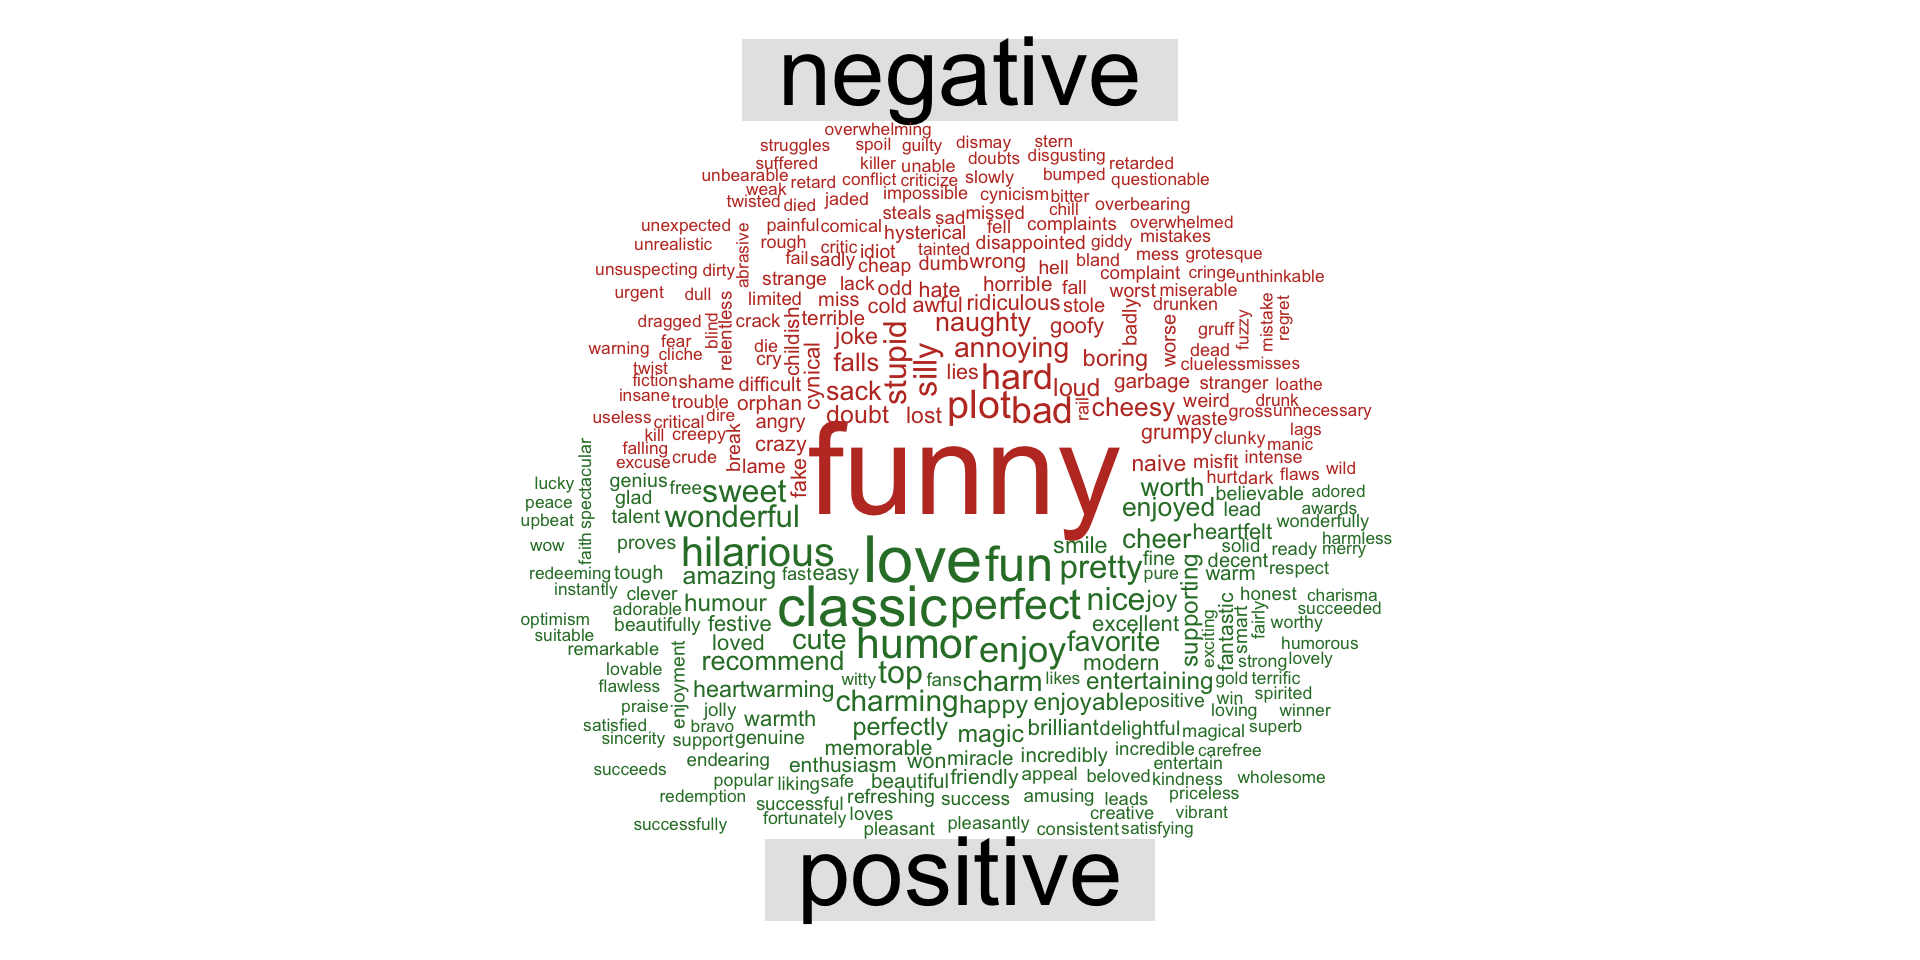
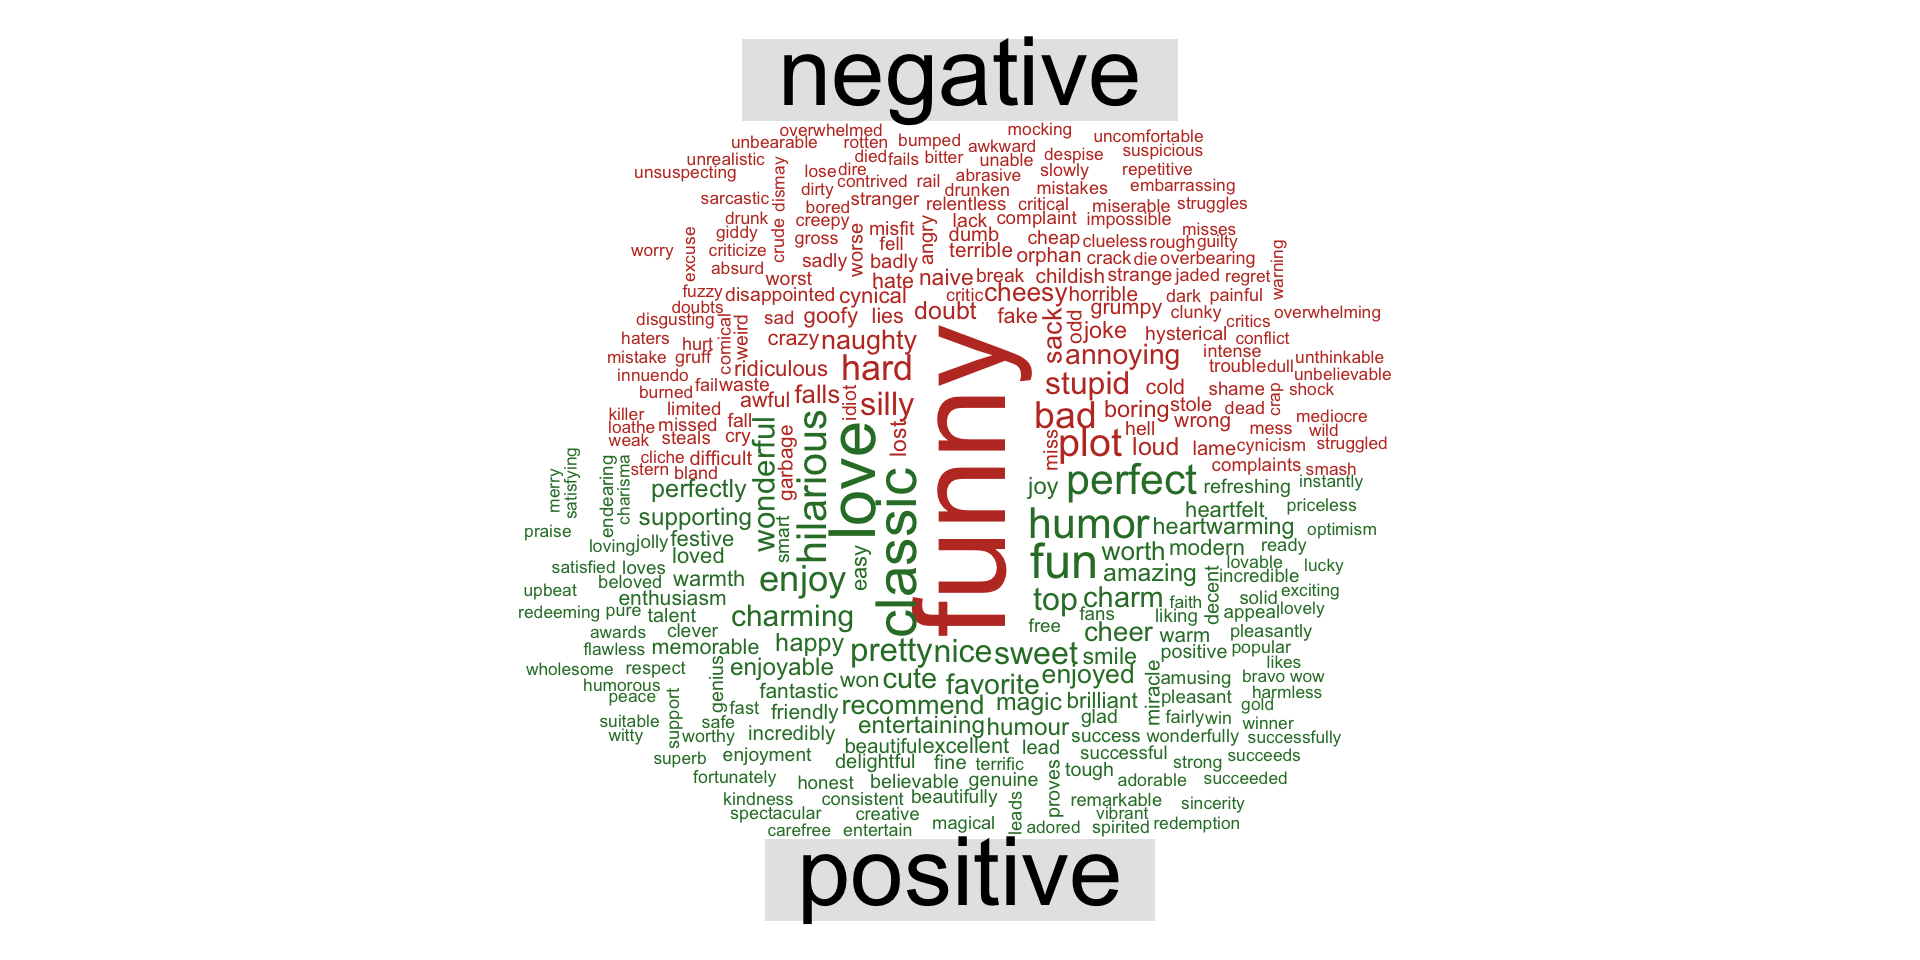
update agenda pics

Changed region(s): [[0.25, 0.125, 0.7188, 0.875]]

diff --git a/index.html b/index.html
@@ -414,9 +414,14 @@ Randi Bolt
 </div>
 </div><div class="column" style="width:25%;">
 <div class="fragment">
-<p><img data-src="img/elf.jpg" style="width:100.0%" alt=""></p>
 <div style="text-align: center;">
-<p><strong>Basic Workflow &amp; Sentiment Analysis</strong></p>
+<p><img data-src="images/clipboard-4240233675.png"><strong>Basic Workflow &amp; Sentiment Analysis</strong></p>
+</div>
+</div>
+</div><div class="column" style="width:25%;">
+<div class="fragment">
+<div style="text-align: center;">
+<p><img data-src="images/clipboard-1160658675.png"><strong>Choosing K</strong></p>
 </div>
 </div>
 </div><div class="column" style="width:25%;">
@@ -424,13 +429,6 @@ Randi Bolt
 <p><img data-src="img/elf.jpg" style="width:100.0%"></p>
 <div style="text-align: center;">
 <p><strong>Topic Modeling</strong></p>
-</div>
-</div>
-</div><div class="column" style="width:25%;">
-<div class="fragment">
-<p><img data-src="img/elf.jpg" style="width:100.0%"></p>
-<div style="text-align: center;">
-<p><strong>Sharing the Results</strong></p>
 </div>
 </div>
 </div>